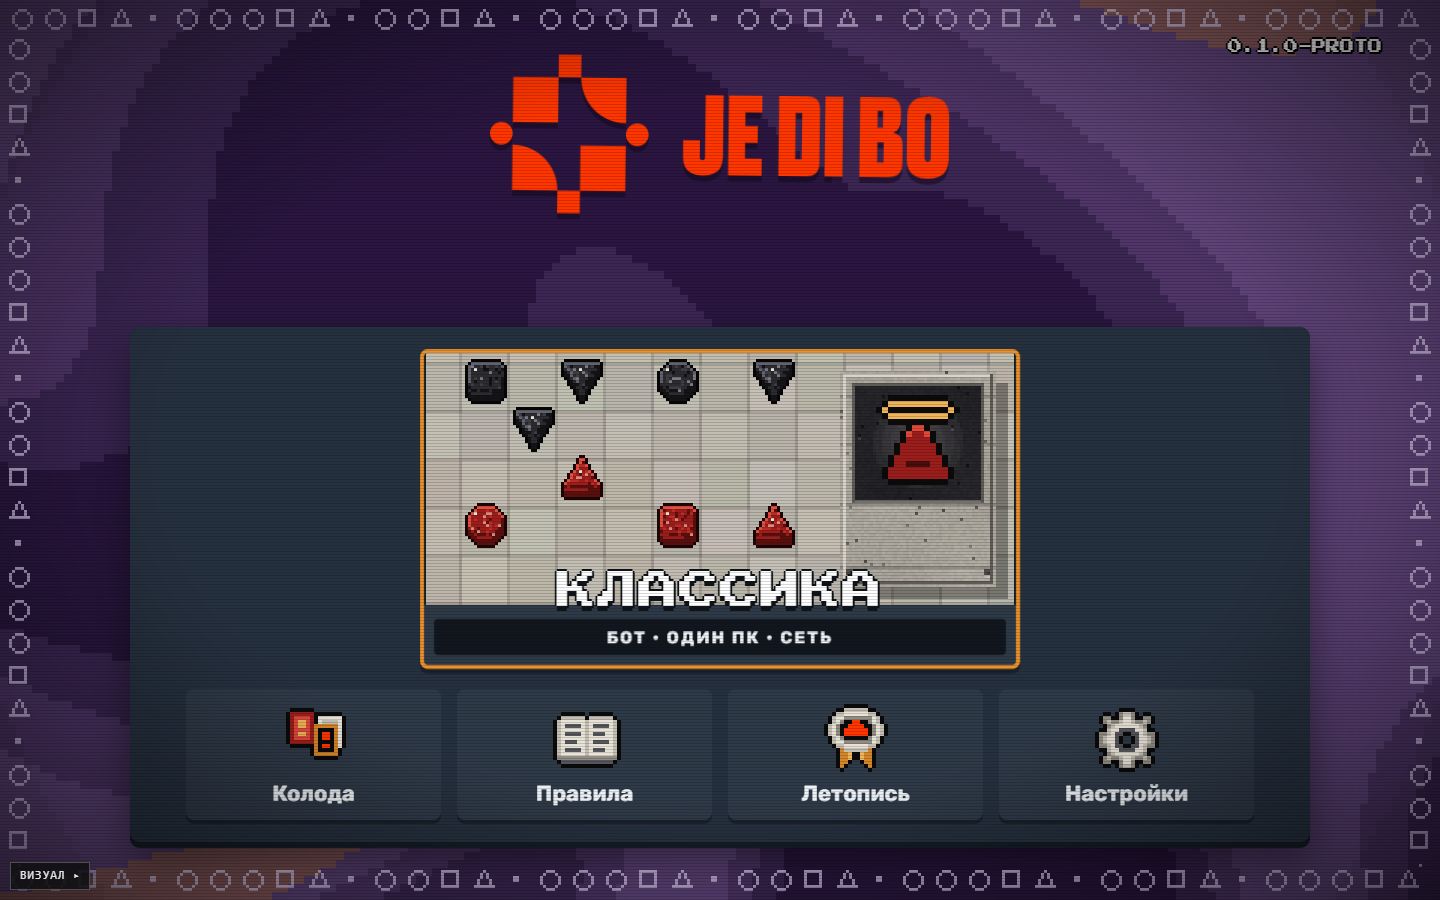
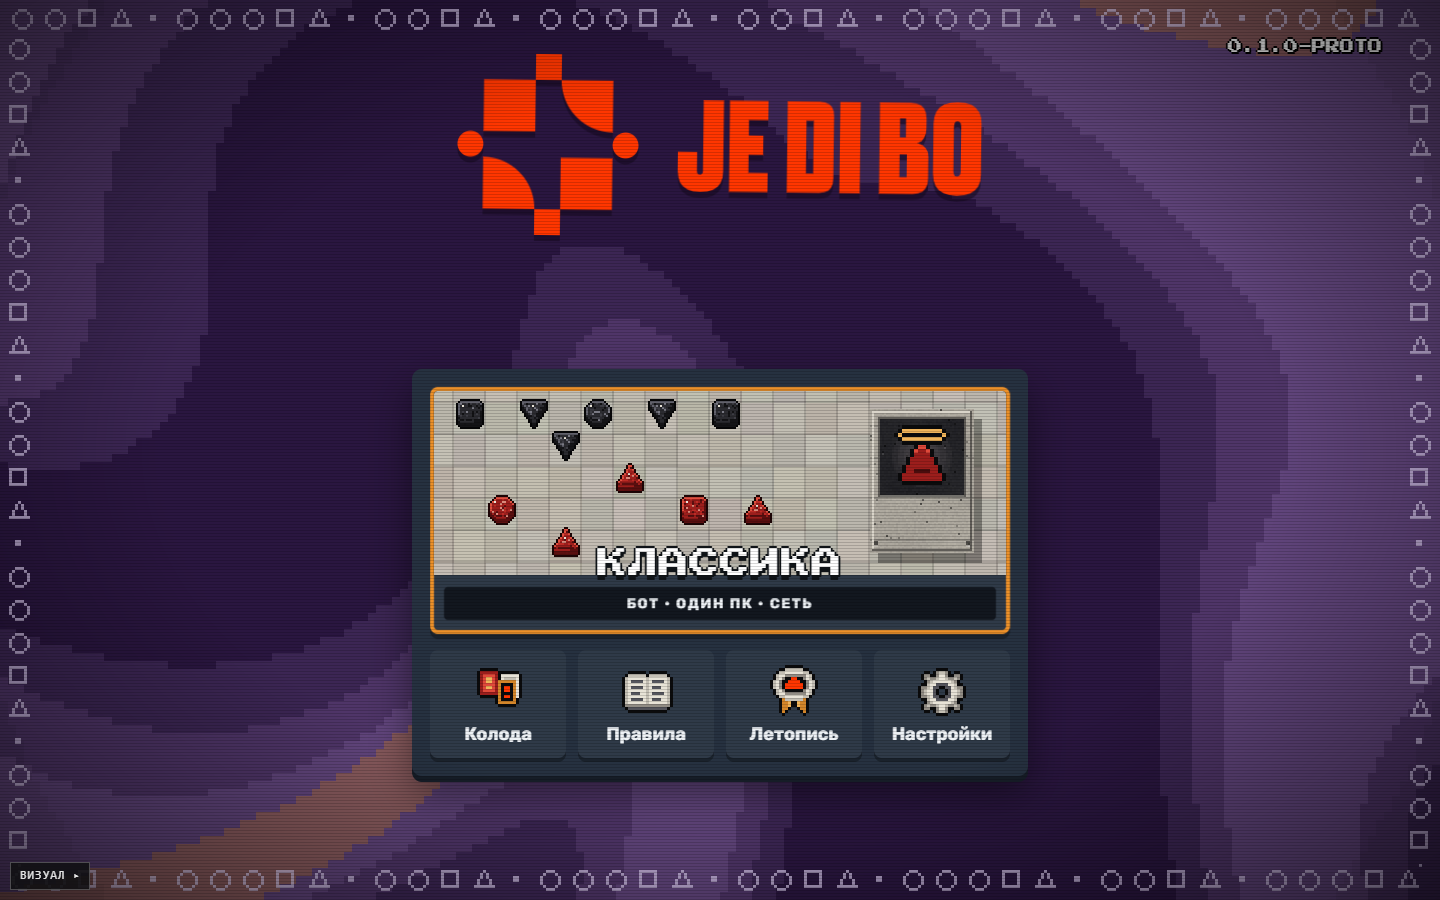
Меню «б»: плитка «Классика» меньше, подложка по размеру содержимого без пустых полей

diff --git a/src/styles/variants/b.css b/src/styles/variants/b.css
@@ -187,15 +187,16 @@ body.ui-b .bm-version {
 body.ui-b .bm-logo { margin-top: 7vh; animation: logoBob 4.5s ease-in-out infinite; }
 body.ui-b .bm-logo .logo-art { filter: drop-shadow(0 6px 0 rgba(20, 8, 30, 0.55)); }
 body.ui-b .bm-panel {
-  margin-top: auto; margin-bottom: 58px; width: min(1180px, calc(100% - 120px));
-  background: var(--b-panel); border-radius: 10px; padding: 22px 26px 22px;
+  /* подложка по размеру содержимого: плитка той же ширины, что ряд кнопок, — без пустых полей */
+  margin: auto 0; width: fit-content;
+  background: var(--b-panel); border-radius: 10px; padding: 18px;
   box-shadow: 0 6px 0 var(--b-panel-edge), 0 18px 40px var(--b-shadow);
-  display: flex; flex-direction: column; gap: 20px;
+  display: flex; flex-direction: column; gap: 16px;
 }
 body.ui-b .bm-tiles { display: flex; justify-content: center; }
 body.ui-b .bm-tile {
   position: relative; display: flex; flex-direction: column; align-items: center; cursor: pointer;
-  width: 600px; padding: 0; overflow: hidden; border-radius: 8px;
+  width: 100%; padding: 0; overflow: hidden; border-radius: 8px;
   background: var(--b-tile); border: 4px solid var(--b-on);
   box-shadow: 0 5px 0 var(--b-tile-edge); transition: transform 0.12s var(--bounce);
 }
@@ -203,19 +204,19 @@ body.ui-b .bm-tile:hover:not(:disabled) { transform: translateY(-3px); }
 body.ui-b .bm-tile-art { width: 100%; display: flex; justify-content: center; background: var(--b-track); line-height: 0; }
 body.ui-b .bm-tile-art canvas { display: block; }
 body.ui-b .bm-tile-title {
-  margin-top: -34px; position: relative; font-family: var(--b-f-head); font-size: 40px; letter-spacing: 0.02em; color: #fff;
+  margin-top: -26px; position: relative; font-family: var(--b-f-head); font-size: 30px; letter-spacing: 0.02em; color: #fff;
   text-shadow: 2px 0 0 #101418, -2px 0 0 #101418, 0 2px 0 #101418, 0 -2px 0 #101418, 2px 2px 0 #101418, 0 5px 0 #101418;
 }
 body.ui-b .bm-tile-sub {
   width: calc(100% - 20px); margin: 8px 10px 10px; padding: 8px; border-radius: 4px;
-  background: var(--b-tile-band); color: var(--b-text); font-weight: 700; font-size: 17px; letter-spacing: 0.12em;
+  background: var(--b-tile-band); color: var(--b-text); font-weight: 700; font-size: 14px; letter-spacing: 0.12em;
 }
-body.ui-b .bm-bar { display: grid; grid-template-columns: repeat(4, 1fr); gap: 16px; padding: 0 30px; }
+body.ui-b .bm-bar { display: grid; grid-template-columns: repeat(4, 136px); gap: 12px; }
 body.ui-b .bm-icon {
   display: flex; flex-direction: column; align-items: center; gap: 4px; cursor: pointer;
   padding: 12px 8px 10px; border-radius: 8px; border: 3px solid transparent;
   background: var(--b-tile); color: var(--b-text); box-shadow: 0 4px 0 var(--b-tile-edge);
-  font-family: var(--b-f-text); font-weight: 700; font-size: 22px;
+  font-family: var(--b-f-text); font-weight: 700; font-size: 18px;
   transition: transform 0.12s var(--bounce);
 }
 body.ui-b .bm-icon:hover, body.ui-b .bm-icon:focus-visible { transform: translateY(-2px); border-color: var(--b-accent); color: var(--b-title); outline: none; }

diff --git a/src/ui/variants/shared.ts b/src/ui/variants/shared.ts
@@ -72,23 +72,25 @@ export function menuIcon(k: MenuIcon): Canvas {
 
 /** Иллюстрация плитки «Классика»: кусок поля с фигурами и карта Кармы. */
 export function classicArt(): Canvas {
-  const W = 196, H = 84;
+  const W = 286, H = 92; // ×2 = внутренняя ширина плитки (ряд из 4 кнопок по 136 px)
   const [c, g] = makeCanvas(W, H);
-  for (let y = 0; y < 6; y++) for (let x = 0; x < 13; x++) g.drawImage(cellTile(x, y), x * 16 - 4, y * 16 - 12);
-  const put = (r: Rank, col: 'red' | 'black', cx: number, cy: number, up: boolean) => g.drawImage(pieceSprite(r, col, up), cx * 16 - 4, cy * 16 - 14);
+  for (let y = 0; y < 7; y++) for (let x = 0; x < 19; x++) g.drawImage(cellTile(x, y), x * 16 - 6, y * 16 - 10);
+  const put = (r: Rank, col: 'red' | 'black', cx: number, cy: number, up: boolean) => g.drawImage(pieceSprite(r, col, up), cx * 16 - 6, cy * 16 - 12);
   put(Rank.Square, 'black', 1, 1, false);
   put(Rank.Triangle, 'black', 3, 1, false);
   put(Rank.Circle, 'black', 5, 1, false);
   put(Rank.Triangle, 'black', 7, 1, false);
-  put(Rank.Triangle, 'black', 2, 2, false);
-  put(Rank.Triangle, 'red', 3, 3, true);
-  put(Rank.Square, 'red', 5, 4, true);
-  put(Rank.Circle, 'red', 1, 4, true);
-  put(Rank.Triangle, 'red', 7, 4, true);
+  put(Rank.Square, 'black', 9, 1, false);
+  put(Rank.Triangle, 'black', 4, 2, false);
+  put(Rank.Triangle, 'red', 6, 3, true);
+  put(Rank.Circle, 'red', 2, 4, true);
+  put(Rank.Square, 'red', 8, 4, true);
+  put(Rank.Triangle, 'red', 10, 4, true);
+  put(Rank.Triangle, 'red', 4, 5, true);
   // карта Кармы «вылетает» над полем
   g.fillStyle = 'rgba(0,0,0,0.35)';
-  g.fillRect(142, 10, 52, 72);
-  g.drawImage(cardFace('immortal'), 138, 6);
+  g.fillRect(222, 14, 52, 72);
+  g.drawImage(cardFace('immortal'), 218, 9);
   return c;
 }
 

diff --git a/src/ui/variants/menu/b.ts b/src/ui/variants/menu/b.ts
@@ -18,13 +18,13 @@ export function menuB(root: HTMLElement) {
     return el;
   };
   const iconBtn = (icon: MenuIcon, label: string, id: Parameters<typeof open>[0]) =>
-    press(h('button', { class: 'bm-icon' }, canvasEl(menuIcon(icon), 4, 'bm-icon-art'), h('span', {}, label)), () => open(id));
+    press(h('button', { class: 'bm-icon' }, canvasEl(menuIcon(icon), 3, 'bm-icon-art'), h('span', {}, label)), () => open(id));
 
   const classic = press(
     h(
       'button',
       { class: 'bm-tile' },
-      h('div', { class: 'bm-tile-art' }, canvasEl(classicArt(), 3)),
+      h('div', { class: 'bm-tile-art' }, canvasEl(classicArt(), 2)),
       h('div', { class: 'bm-tile-title' }, 'КЛАССИКА'),
       h('div', { class: 'bm-tile-sub' }, 'БОТ • ОДИН ПК • СЕТЬ'),
     ),
@@ -37,7 +37,7 @@ export function menuB(root: HTMLElement) {
       { class: 'b-menu' },
       shapeFrame(cssVar('--b-frame')),
       h('div', { class: 'bm-version' }, VERSION),
-      h('div', { class: 'bm-logo' }, logoEl({ variant: 'full', color: 'brand', scale: 1.05 })),
+      h('div', { class: 'bm-logo' }, logoEl({ variant: 'full', color: 'brand', scale: 1.2 })),
       h(
         'div',
         { class: 'bm-panel' },
